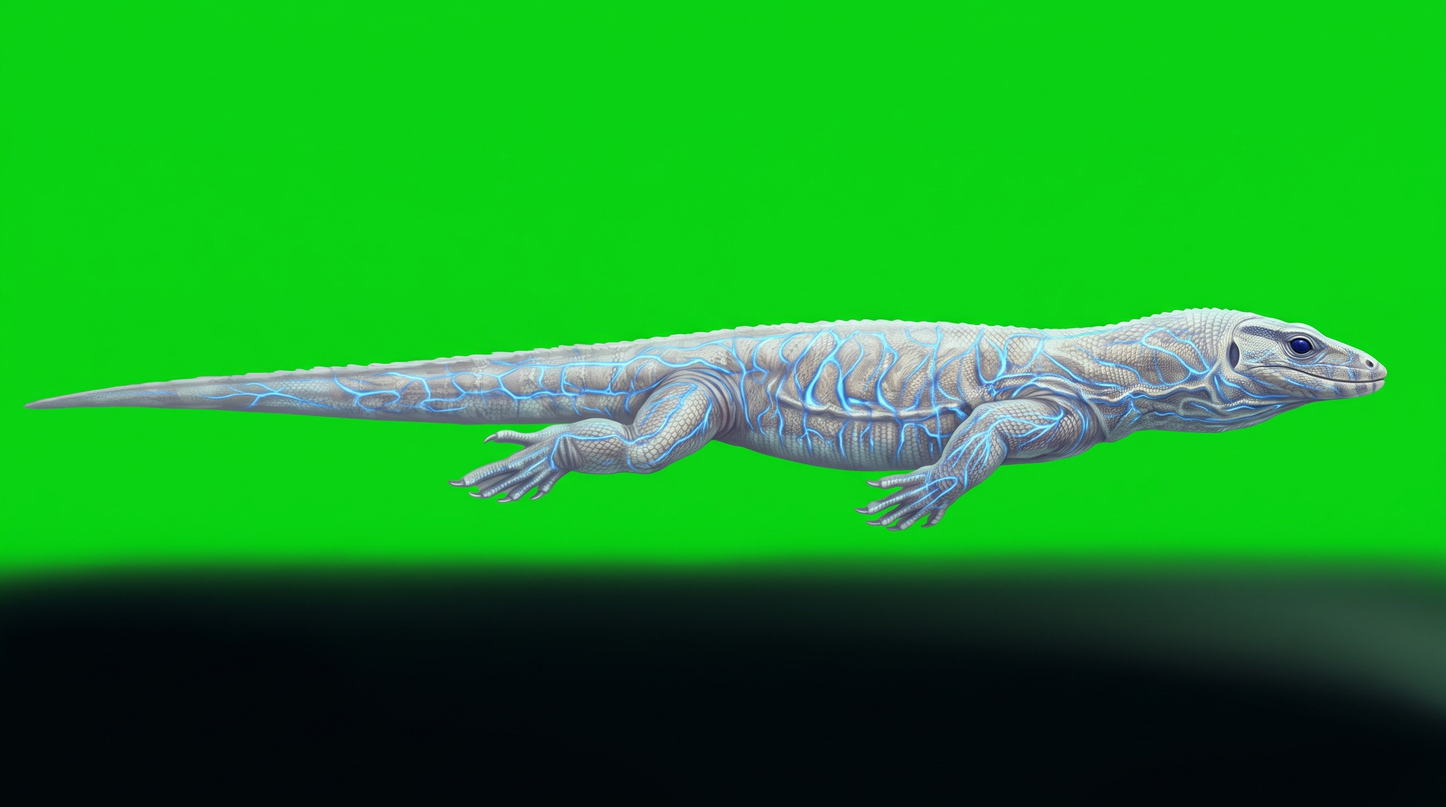
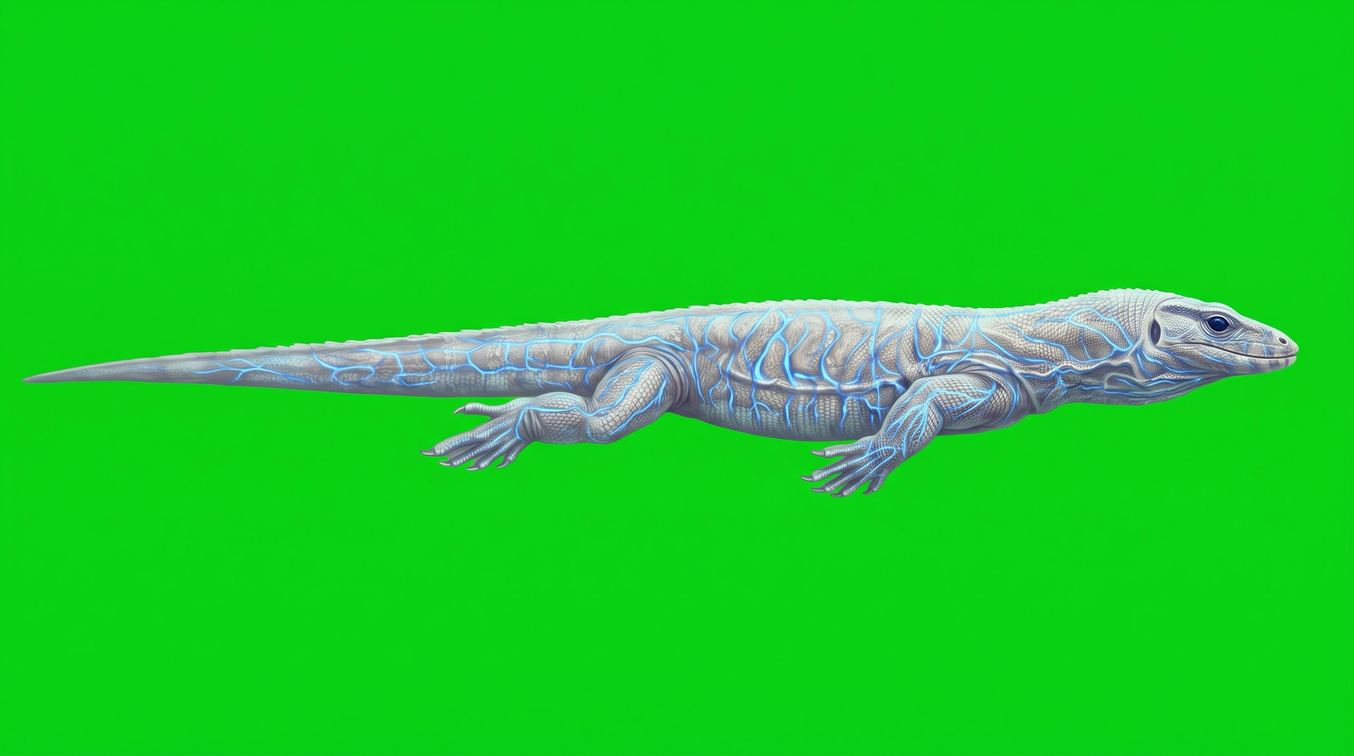
art: varano del Nilo albino completo (profilo, bocca aperta, fronte, retro, card): arriva in mare (v0.70.2)

diff --git a/src/data/sprites.generated.ts b/src/data/sprites.generated.ts
@@ -303,6 +303,7 @@ export const ART_KEYS: readonly string[] = [
   'tricheco',
   'tricheco_alfa',
   'varano_nilo',
+  'varano_nilo_albino',
   'varano_nilo_albino_finale',
   'zanna',
   'zannarossa',
@@ -499,6 +500,7 @@ export const BATTLE_ART_KEYS: readonly string[] = [
   'tricheco_alfa_front',
   'tricheco_back',
   'tricheco_front',
+  'varano_nilo_albino_back',
   'varano_nilo_albino_finale_back',
   'varano_nilo_albino_finale_front',
   'varano_nilo_albino_front',
@@ -701,9 +703,10 @@ export const BATTLE_ART_BOX: Readonly<Record<string, readonly [number, number, n
   'tricheco_alfa_front': [21, 234, 779, 779],
   'tricheco_back': [22, 234, 778, 778],
   'tricheco_front': [21, 289, 779, 778],
+  'varano_nilo_albino_back': [28, 331, 773, 774],
   'varano_nilo_albino_finale_back': [23, 134, 777, 777],
   'varano_nilo_albino_finale_front': [22, 280, 777, 777],
-  'varano_nilo_albino_front': [23, 317, 777, 777],
+  'varano_nilo_albino_front': [22, 356, 779, 778],
   'varano_nilo_back': [21, 274, 779, 778],
   'varano_nilo_front': [22, 278, 778, 778],
   'zanna_back': [24, 256, 777, 777],
@@ -1488,13 +1491,14 @@ export const ASSET_HASHES: Readonly<Record<string, string>> = {
   'sprites/tricheco_front.webp': 'c69cccbd',
   'sprites/tricheco_open.webp': 'a0ace619',
   'sprites/varano_nilo.webp': 'b0e6cdfa',
-  'sprites/varano_nilo_albino.webp': '93e28837',
+  'sprites/varano_nilo_albino.webp': '8a14bb5d',
+  'sprites/varano_nilo_albino_back.webp': 'cc771f50',
   'sprites/varano_nilo_albino_finale.webp': 'f258f275',
   'sprites/varano_nilo_albino_finale_back.webp': 'a6bb0718',
   'sprites/varano_nilo_albino_finale_front.webp': '37b227a7',
   'sprites/varano_nilo_albino_finale_open.webp': '640e8501',
-  'sprites/varano_nilo_albino_front.webp': 'cf521548',
-  'sprites/varano_nilo_albino_open.webp': '68524221',
+  'sprites/varano_nilo_albino_front.webp': '3287b6be',
+  'sprites/varano_nilo_albino_open.webp': 'a481f606',
   'sprites/varano_nilo_back.webp': 'f990ff74',
   'sprites/varano_nilo_front.webp': 'b1050882',
   'sprites/varano_nilo_open.webp': 'b0e6cdfa',
@@ -1622,6 +1626,7 @@ export const ASSET_HASHES: Readonly<Record<string, string>> = {
   'art/tricheco.webp': '4ac34aa0',
   'art/tricheco_alfa.webp': '73f0ad23',
   'art/varano_nilo.webp': '30851316',
+  'art/varano_nilo_albino.webp': '693e1dc6',
   'art/varano_nilo_albino_finale.webp': '328e9799',
   'art/zanna.webp': 'ce7167a3',
   'art/zannarossa.webp': 'ae8e853c',

diff --git a/src/data/bodyShapes.generated.ts b/src/data/bodyShapes.generated.ts
@@ -98,7 +98,7 @@ export const BODY_SHAPES: Readonly<Record<string, readonly (readonly [number, nu
   tricheco: [[0,0],[-0.115,0.108],[-0.115,0.115],[-0.123,0.187],[-0.123,0.112],[-0.092,0.091],[-0.057,0.063],[-0.044,0.088],[0,0]],
   tricheco_alfa: [[-0.128,0.106],[-0.177,0.146],[-0.154,0.179],[-0.144,0.182],[-0.135,0.12],[-0.103,0.104],[-0.082,0.073],[-0.058,0.055],[-0.098,0.092]],
   varano_nilo: [[-0.078,0.086],[-0.064,0.043],[-0.056,0.07],[-0.065,0.081],[-0.061,0.026],[-0.05,0.057],[-0.027,0.029],[0,0.041],[0,0.037]],
-  varano_nilo_albino: [[-0.052,0.008],[-0.062,0.025],[-0.051,0.055],[-0.055,0.094],[-0.048,0.042],[-0.036,0.074],[-0.025,0.018],[-0.016,0.012],[-0.006,0.007]],
+  varano_nilo_albino: [[-0.053,0.008],[-0.063,0.025],[-0.051,0.056],[-0.055,0.094],[-0.048,0.042],[-0.036,0.074],[-0.025,0.018],[-0.016,0.012],[-0.006,0.008]],
   varano_nilo_albino_finale: [[-0.043,0.031],[-0.091,0.065],[-0.102,0.181],[-0.169,0.074],[-0.131,0.056],[-0.081,0.128],[-0.084,0.132],[-0.046,0.023],[-0.015,0.03]],
   zanna: [[-0.053,0.051],[-0.08,0.09],[-0.1,0.103],[-0.134,0.178],[-0.209,0.095],[-0.069,0.078],[-0.061,0.042],[-0.064,0.061],[-0.154,0.121]],
   zannarossa: [[-0.043,0.029],[-0.088,0.093],[-0.119,0.121],[-0.139,0.178],[-0.228,0.1],[-0.071,0.096],[-0.043,0.044],[-0.089,0.075],[-0.17,0]],

diff --git a/tests/lottoF2.test.ts b/tests/lottoF2.test.ts
@@ -5,7 +5,7 @@ import { describe, expect, it } from 'vitest';
 import { ART_KEYS, SPRITE_KEYS } from '../src/data/sprites.generated';
 import { speciesById } from '../src/data/species';
 import { finalFormAt } from '../src/systems/beasts/growth';
-import { formName, hasFinalForm } from '../src/systems/beasts/forms';
+import { formName, hasAlbinoArt, hasFinalForm } from '../src/systems/beasts/forms';
 import { allRareForms } from '../src/systems/beasts/rareVersions';
 import { PROGRESSION } from '../src/data/rules';
 
@@ -44,9 +44,10 @@ describe('correzioni del lotto F', () => {
     expect(SPRITE_KEYS).not.toContain('coccodrillo_marino_finale');
   });
 
-  it('nel bestiario delle versioni rare: il Re Alfa sì, il Varano d’osso solo quando c’è il varano albino', () => {
+  it('nel bestiario delle versioni rare: il Re Alfa e il Varano d’osso (il varano albino ha tutte le immagini)', () => {
     const keys = allRareForms().map((f) => `${f.speciesId}:${f.variant}:${!!f.final}`);
     expect(keys).toContain('squalo_bianco:alfa:true');
-    expect(keys).not.toContain('varano_nilo:albino:true'); // the albino monitor still lacks its card and back
+    expect(keys).toContain('varano_nilo:albino:true');
+    expect(hasAlbinoArt('varano_nilo')).toBe(true);
   });
 });

diff --git a/scripts/art.ts b/scripts/art.ts
@@ -85,7 +85,6 @@ const SIDE_ERASE: Record<string, number[][]> = {
     [0.7, 0, 1, 0.34],
     [0.42, 0, 0.7, 0.26],
   ],
-  varano_nilo_albino_side: [[0, 0.68, 1, 1]], // a dark sea floor under the green screen (lotto F)
 };
 const SIDE_FLOOD: CutoutOptions = { low: 3, high: 16, soft: 30 };
 const SIDE_FLOOD_SPECIES = [

diff --git a/tests/battleBalance.test.ts b/tests/battleBalance.test.ts
@@ -42,7 +42,7 @@ describe('battle balance', () => {
     save.team = [
       {
         uid: 'b1',
-        form: { speciesId: 'varano_nilo', variant: 'albino' },
+        form: { speciesId: 'barracuda', variant: 'albino' },
         level: 12,
         hp: 50,
         ko: false,

diff --git a/CHANGELOG.md b/CHANGELOG.md
@@ -2,6 +2,10 @@
 
 Cosa cambia per chi gioca, versione per versione. Ogni versione ha un'etichetta in git (`v0.1.0`, `v0.2.0`...) a cui si può sempre tornare.
 
+## v0.70.2 — Varano albino (15 ottobre 2026)
+
+- **Il varano del Nilo albino arriva nel Delta**, raro come gli altri albini. Al livello 100 diventa il **Varano d'osso**.
+
 ## v0.70.1 — Correzioni alle bestie nuove (15 ottobre 2026)
 
 - **Squalo mako:** lo "squalo pinna nera" era un mako, lo squalo più veloce. Se ne avevi domato uno, diventa un mako.

diff --git a/docs/PROGRESS.md b/docs/PROGRESS.md
@@ -1,5 +1,10 @@
 # Progressi
 
+## Varano albino (15 ottobre 2026) → v0.70.2
+
+- Immagini complete del varano albino (profilo, bocca aperta, fronte, retro, card) dal proprietario: compare in mare e cresce nel Varano d'osso. Il lotto Gemini 6 è fatto.
+- Le immagini vecchie sono in `art-inbox/_vecchia_varano_nilo_albino_*`.
+
 ## Correzioni al lotto F (15 ottobre 2026) → v0.70.1
 
 - **Squalo mako:** `squalo_pinna_nera` diventa `squalo_mako`.
